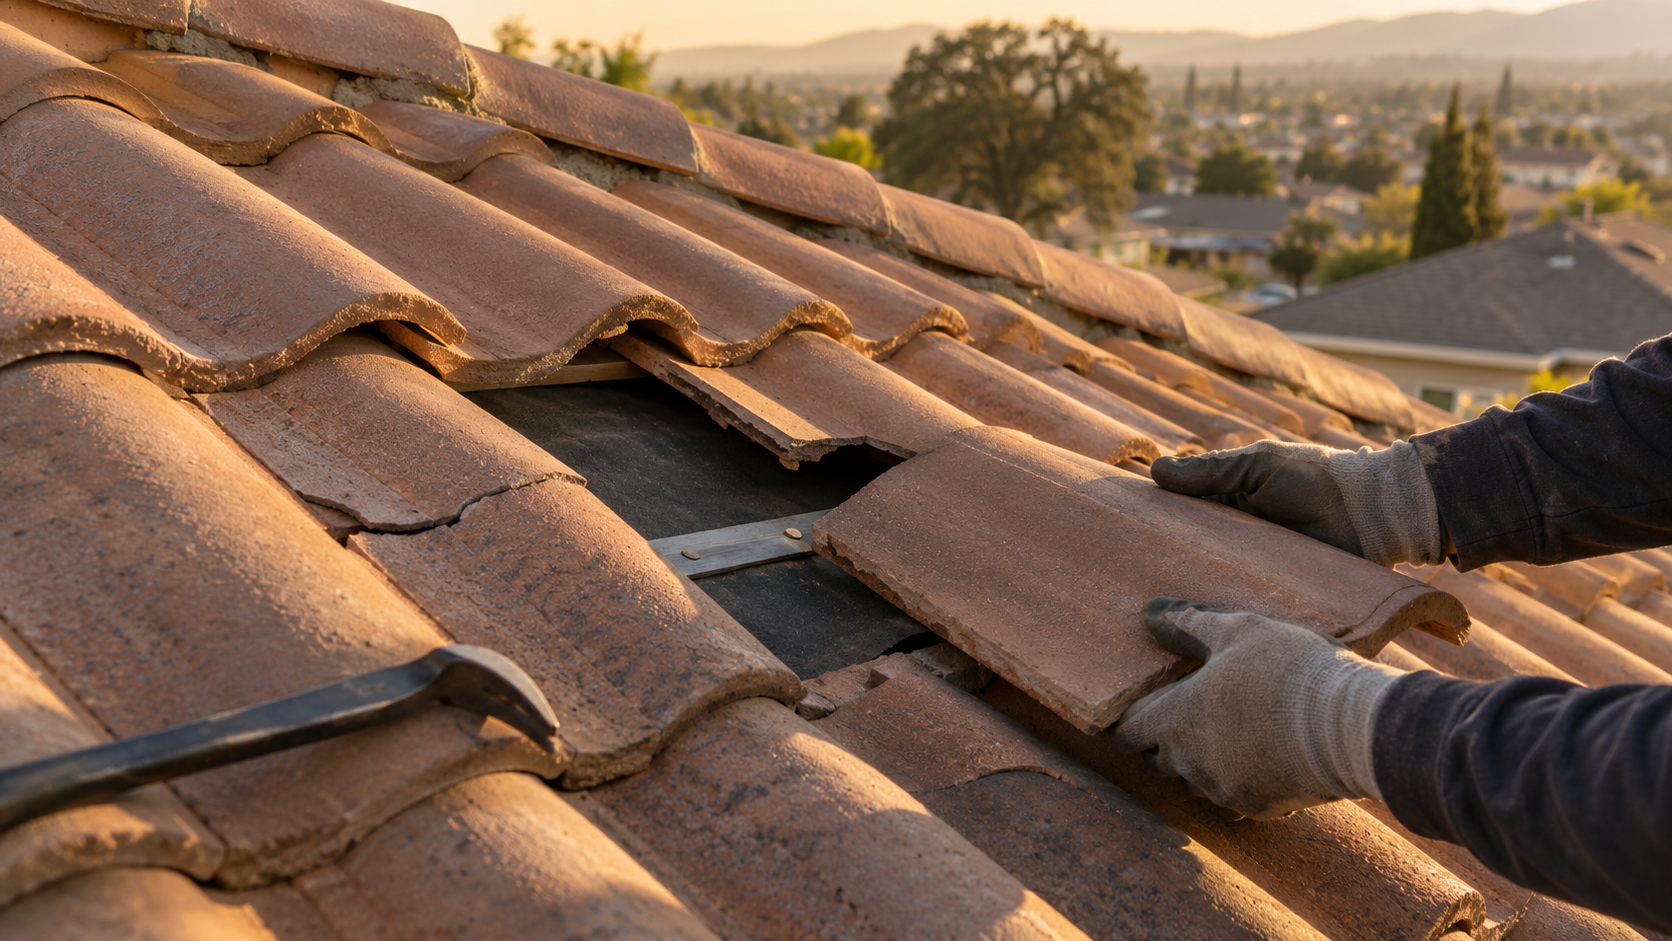
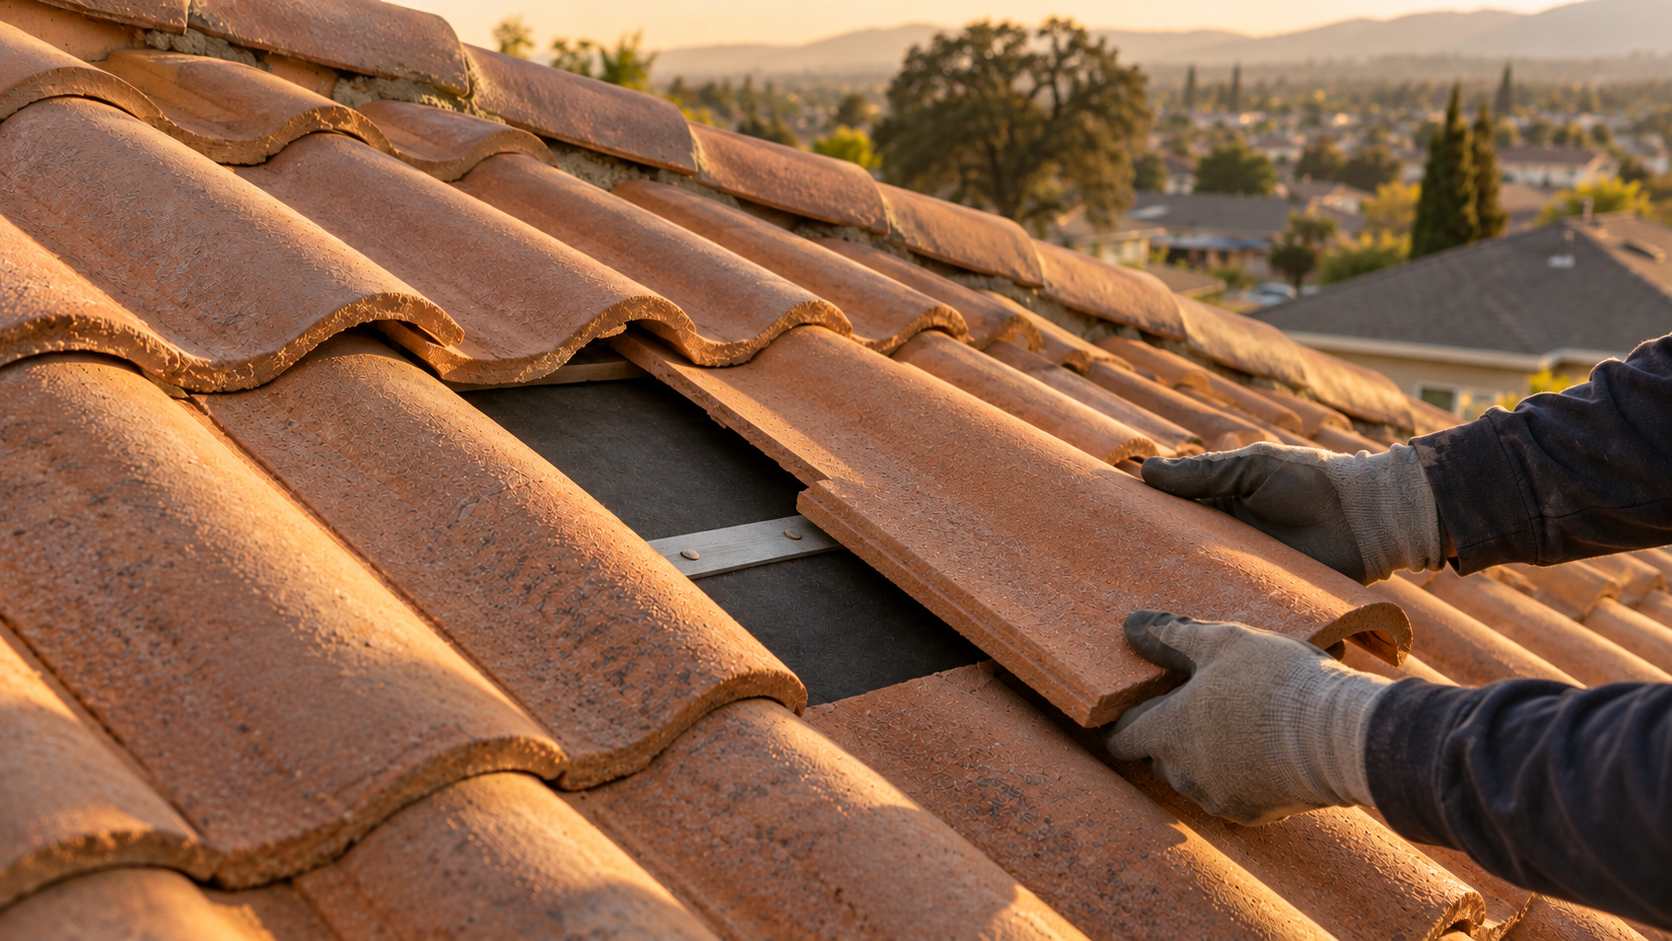
Polish spacing and motion; refine Tesla charging imagery

diff --git a/src/styles/polish.css b/src/styles/polish.css
@@ -1,0 +1,51 @@
+/* Consistent editorial spacing and restrained light across the marketing site. */
+.page-hero-copy{display:grid;gap:1.35rem;position:relative;z-index:2;align-content:center;min-width:0}
+.page-hero-copy .lede{margin:0;max-width:38rem;line-height:1.8}
+.page-hero-copy .hero-ctas{margin-top:.35rem}
+.page-hero .shell>*,.split>*,.quote-wrap>*,.included>*{min-width:0}
+.page-hero h1{font-size:clamp(2.6rem,4.4vw,4.8rem);line-height:1.08;max-width:17ch;overflow-wrap:normal}
+.page-hero .photo{box-shadow:0 30px 70px #0003;border:1px solid #ffffff1a}
+.page-hero[data-service=ev_charger] .photo{aspect-ratio:4/5}
+.page-hero[data-service=ev_charger] .photo img{object-position:50% 50%}
+.section-head{gap:1.25rem;margin-bottom:clamp(2rem,3.5vw,3.25rem)}
+.section-head h2,.split h2,.quote h2{line-height:1.09}
+.section{padding-block:clamp(4rem,7.5vw,7.5rem)}
+.included h3{line-height:1.2;margin-block:1rem .8rem}
+.included{background:none;border:0;border-radius:0;overflow:visible;gap:1.25rem}
+.included>div{padding:clamp(1.4rem,2.5vw,2.25rem);background:var(--paper);border:1px solid var(--line);border-radius:6px;box-shadow:0 8px 30px #17202304}
+.included p{line-height:1.85;margin-bottom:0}
+.split{column-gap:clamp(2rem,5vw,5rem)}
+.callout{padding:clamp(1.5rem,3vw,2.5rem);border-left-color:#d8674c}
+.quote .lede{margin:0;line-height:1.85}
+.quote-wrap{align-items:start}
+.go-grid>*,.lead-form,.fields>*,.field{min-width:0}
+.fields.two,.choices.two{grid-template-columns:repeat(2,minmax(0,1fr))}
+.field :is(input,select,textarea){min-width:0;max-width:100%}
+.faq summary{line-height:1.5;padding-block:1.35rem}
+.faq details p{line-height:1.85;margin-top:0}
+.foot-grid ul{gap:.75rem}.foot-legal{row-gap:.85rem}
+.split-line{overflow:visible;padding-bottom:.09em;margin-bottom:-.09em}
+
+/* Light is behind the content; fine grain lives in the section backgrounds. */
+.page-hero::before{content:'';position:absolute;inset:-20%;pointer-events:none;z-index:0;background:radial-gradient(ellipse at 25% 30%,#b66e3e25,transparent 48%),radial-gradient(ellipse at 75% 65%,#498a9c22,transparent 48%);animation:light-drift 14s ease-in-out infinite alternate;animation-play-state:paused}
+.page-hero[data-visible]::before{animation-play-state:running}
+.page-hero .shell{position:relative;z-index:2}
+.intro-section,.craft-section,.process-section,.service-showcase{background-image:var(--grain);background-size:220px}
+.system-section,.energy-story,.quote{background-image:radial-gradient(ellipse at 80% 10%,#6896a014,transparent 58%),radial-gradient(ellipse at 10% 90%,#d5764310,transparent 55%)}
+.system-stage,.energy-explorer{box-shadow:inset 0 1px #ffffff14,0 25px 70px #0002}
+.page-hero-copy>.label{animation:editorial-arrive .7s both}
+.page-hero-copy>h1{animation:editorial-arrive 1s .08s both}
+.page-hero-copy>.lede{animation:editorial-arrive 1s .16s both}
+.page-hero-copy>.hero-ctas{animation:editorial-arrive 1s .24s both}
+.btn-red{position:relative;overflow:hidden;isolation:isolate}
+.btn-red::after{content:'';position:absolute;inset:0;pointer-events:none;background:linear-gradient(115deg,transparent 30%,#ffffff26 48%,transparent 67%);transform:translateX(-130%);transition:transform .7s cubic-bezier(.2,.7,.2,1)}
+.btn-red:hover::after,.btn-red:focus-visible::after{transform:translateX(130%)}
+.included>div{transition:border-color .4s,transform .4s}
+@media(hover:hover){.included>div:hover{border-color:#b24935;transform:translateY(-4px)}}
+@keyframes editorial-arrive{from{opacity:.4;transform:translateY(18px)}to{opacity:1;transform:none}}
+@keyframes light-drift{to{transform:translate3d(4%,3%,0) scale(1.05)}}
+@media(min-width:64rem){.page-hero .shell{gap:clamp(2.5rem,5vw,5rem);padding-block:4.5rem}.page-hero .photo{max-height:640px}}
+@media(max-width:63.99rem){.page-hero .shell{gap:2.5rem;padding-block:3.25rem}.page-hero-copy{max-width:45rem}.page-hero[data-service=ev_charger] .photo{max-width:36rem;width:100%;margin-inline:auto}.intro-grid,.craft-grid{gap:2.5rem}}
+@media(max-width:47.99rem){.section{padding-block:3.75rem}.page-hero .shell{padding-block:2.75rem;gap:2rem}.page-hero h1{font-size:clamp(2.3rem,10.4vw,3.5rem)}.page-hero-copy{gap:1.2rem}.page-hero-copy .hero-ctas{gap:.65rem}.page-hero-copy .hero-ctas .btn{width:100%;justify-content:center;padding-inline:.9rem}.quote h2{font-size:clamp(2.35rem,10vw,3rem)}.quote-wrap{gap:2.25rem}.photo-service-copy p{margin-right:2.5rem}.system-descriptions{min-height:250px}.footer-wordmark{padding-bottom:1.5rem}.intro-section,.craft-section,.process-section,.service-showcase{background-image:none}}
+@media(prefers-reduced-motion:reduce){.page-hero::before,.page-hero-copy>*{animation:none!important}.btn-red::after{display:none}.included>div:hover{transform:none}}
+@media(max-width:23rem){.choices.two{grid-template-columns:1fr}.fields.two{grid-template-columns:1fr}.fields .wide{grid-column:auto}}

diff --git a/src/styles/kinetic.css b/src/styles/kinetic.css
@@ -12,9 +12,6 @@ html[data-menu-open] .cookie{visibility:hidden!important;pointer-events:none!imp
 .drawer .drawer-cta .btn{min-height:3.1rem;font-size:.85rem}
 .drawer[data-open] nav a{animation:menu-enter .38s both}
 @keyframes menu-enter{from{opacity:.25;transform:translateX(-12px)}to{opacity:1;transform:none}}
-.motion-control{flex-shrink:0;color:inherit;width:40px;height:40px;border:1px solid #87999c40;border-radius:50%;opacity:.85}
-.motion-control[hidden]{display:none}.motion-control svg{width:20px;height:20px}.motion-play-icon{display:none}
-.motion-control[aria-pressed=true] .motion-pause-icon{display:none}.motion-control[aria-pressed=true] .motion-play-icon{display:block}
 /* Motion runs only while these sections are visible. */
 .cinema-image img{animation:cinema-drift 18s ease-in-out infinite alternate;animation-play-state:paused}
 [data-visible] .cinema-image img{animation-play-state:running}
@@ -66,7 +63,7 @@ html[data-menu-open] .cookie{visibility:hidden!important;pointer-events:none!imp
 .footer-wordmark{overflow:hidden}.footer-wordmark span{display:inline-block}
 .flow-line:after{animation-play-state:paused}.energy-story[data-visible] .flow-line:after{animation-play-state:running}
 @media(max-width:63.99rem){.system-stage{grid-template-columns:1fr}.system-drawing{min-height:0;padding:2.5rem 0}.system-detail{border-left:0;border-top:1px solid #abc1c424;padding:2rem}.system-selector{margin-bottom:2rem}.system-descriptions{min-height:230px}.system-descriptions h3{max-width:none;font-size:2.3rem}.system-caption{left:1.5rem;top:1.2rem}.system-footnote{left:1.5rem;bottom:1rem}.process-track:before{display:none}}
-@media(max-width:47.99rem){.header-actions{gap:.35rem}.motion-control{width:34px;height:34px}.system-drawing{padding:3rem 0 2.5rem}.system-svg{width:115%;max-width:none;margin-left:-7.5%}.system-caption,.system-footnote{font-size:.55rem}.system-detail{padding:1.5rem}.system-selector{gap:.2rem}.system-selector button{font-size:.75rem;min-height:58px}.system-descriptions{min-height:290px}.system-descriptions h3{font-size:2.2rem}.energy-band{padding:1.1rem 0}.energy-band-set{gap:1.8rem;padding-right:1.8rem}.cinema-bottom{bottom:2rem}.process-track li{border-top-color:#bfc7c2}}
+@media(max-width:47.99rem){.header-actions{gap:.35rem}.system-drawing{padding:3rem 0 2.5rem}.system-svg{width:115%;max-width:none;margin-left:-7.5%}.system-caption,.system-footnote{font-size:.55rem}.system-detail{padding:1.5rem}.system-selector{gap:.2rem}.system-selector button{font-size:.75rem;min-height:58px}.system-descriptions{min-height:290px}.system-descriptions h3{font-size:2.2rem}.energy-band{padding:1.1rem 0}.energy-band-set{gap:1.8rem;padding-right:1.8rem}.cinema-bottom{bottom:2rem}.process-track li{border-top-color:#bfc7c2}}
 html[data-motion=paused] *,html[data-motion=paused] *:before,html[data-motion=paused] *:after{animation-play-state:paused!important;transition:none!important;scroll-behavior:auto!important}
 /* Entrance effects must never leave content hidden when motion is paused. */
 html[data-motion=paused] :is(.hero-eyebrow,.cinema-content h1,.cinema-lede,.cinema-actions,.drawer nav a,.system-descriptions>div){animation:none!important}

diff --git a/src/scripts/motion.ts b/src/scripts/motion.ts
@@ -52,16 +52,18 @@ function headlines() {
   document.querySelectorAll<HTMLElement>('[data-split]').forEach((el) => {
     if (el.getBoundingClientRect().top <= window.innerHeight * .92) return;
     SplitText.create(el, {
-      type: 'lines',
+      type: 'lines,words',
       mask: 'lines',
       linesClass: 'split-line',
       autoSplit: true,
       onSplit(self) {
-        return gsap.from(self.lines, {
+        return gsap.from(self.words, {
           yPercent: 108,
-          duration: 0.95,
+          rotation: 2,
+          transformOrigin: '0% 100%',
+          duration: 0.9,
           ease: 'expo.out',
-          stagger: 0.09,
+          stagger: { amount: 0.3 },
           scrollTrigger: { trigger: el, start: 'top 86%', once: true },
         });
       },
@@ -99,6 +101,11 @@ export function initMotion() {
     context = gsap.context(() => {
       headlines();
       reveals();
+      // Small editorial accents arrive with their section; body copy stays readable.
+      document.querySelectorAll<HTMLElement>('.section .eyebrow, .section-head > .label, .craft-copy > p:not(.eyebrow), .split > div > p').forEach(el => {
+        if (el.closest('[data-reveal]') || el.querySelector('.btn') || el.getBoundingClientRect().top <= innerHeight * .92) return;
+        gsap.from(el, { y: 16, opacity: 0, duration: .85, ease: 'power3.out', scrollTrigger: {trigger:el,start:'top 91%',once:true} });
+      });
       const desktop = matchMedia('(min-width: 64rem) and (hover: hover)').matches;
       if (desktop) document.querySelectorAll<HTMLElement>('[data-parallax]').forEach(el => {
         gsap.fromTo(el, { yPercent: -3, scale: 1.08 }, { yPercent: 3, ease:'none', scrollTrigger: {trigger:el.parentElement,start:'top bottom',end:'bottom top',scrub:1} });

diff --git a/src/data/site.ts b/src/data/site.ts
@@ -394,7 +394,7 @@ export const servicePages: Record<ServiceKey, ServicePage> = {
     h1: 'Fix the leak before the rain finds it',
     lede: 'Cracked tiles, lifted shingles, worn flashing and leaks around vents or solar mounts. We find the cause and fix it.',
     photo: 'roof-repair',
-    photoAlt: 'Gloved hands replacing a cracked concrete roof tile',
+    photoAlt: 'Gloved hands fitting an intact replacement tile into a terracotta roof',
     includedTitle: 'Common repairs',
     included: [
       {
@@ -484,7 +484,7 @@ export const servicePages: Record<ServiceKey, ServicePage> = {
     h1: 'Charge the car overnight in your own garage',
     lede: 'We install Level 2 chargers on their own circuit, after checking that your electrical panel can carry the load.',
     photo: 'ev-charger',
-    photoAlt: 'Wall-mounted EV charger plugged into an electric car in a tidy garage',
+    photoAlt: 'Tesla parked straight in a garage, connected to a wall charger beside a Powerwall 3',
     includedTitle: 'What the job covers',
     included: [
       {
@@ -679,7 +679,7 @@ export const goPages: GoPage[] = [
       },
     ],
     photo: 'ev-charger',
-    photoAlt: 'EV charger plugged into a car in a garage',
+    photoAlt: 'Tesla connected to a wall charger beside a Powerwall 3 in a clean garage',
   },
   {
     slug: 'roofing',

diff --git a/src/scripts/experience.ts b/src/scripts/experience.ts
@@ -47,20 +47,11 @@ const menu = document.querySelector('[data-drawer]');
 if (menu) new MutationObserver(syncAmbient).observe(menu, { attributes: true, attributeFilter: ['data-open'] });
 
 const motionPreference = matchMedia('(prefers-reduced-motion: reduce)');
-let userPaused = false;
-const motionButtons = document.querySelectorAll<HTMLButtonElement>('[data-motion-control]');
 function syncMotion() {
-  const paused = motionPreference.matches || userPaused;
+  const paused = motionPreference.matches;
   document.documentElement.dataset.motion = paused ? 'paused' : 'active';
-  motionButtons.forEach(button => {
-    button.hidden = motionPreference.matches;
-    button.setAttribute('aria-pressed', String(paused));
-    button.setAttribute('aria-label', paused ? 'Play animations' : 'Pause animations');
-    button.title = paused ? 'Play animations' : 'Pause animations';
-  });
   document.dispatchEvent(new Event('killua:motionchange'));
 }
-motionButtons.forEach(button => button.addEventListener('click', () => { userPaused = !userPaused; syncMotion(); }));
 motionPreference.addEventListener('change', syncMotion);
 syncMotion();
 
